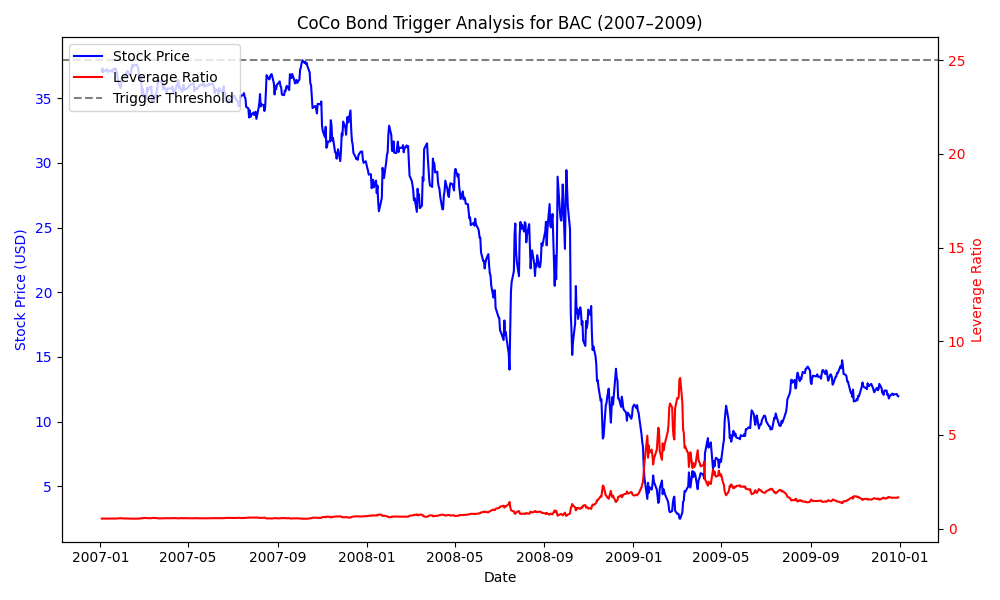
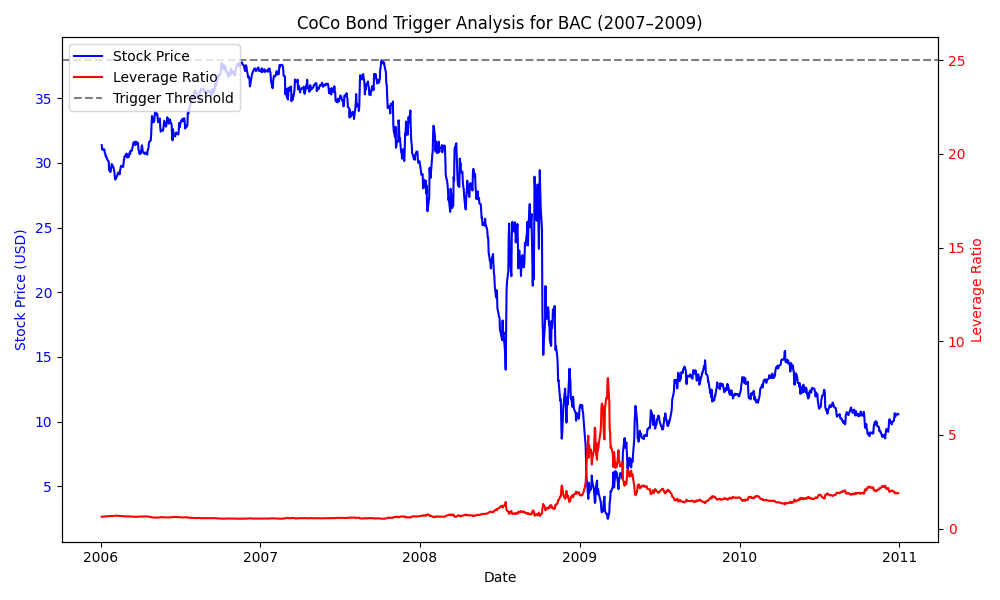
.

diff --git a/code/monte_carlo.py b/code/monte_carlo.py
@@ -84,7 +84,7 @@ def plot_coco_results(df, ticker="BAC", leverage_trigger=25.0):
 def main():
     # 1. Fetch historical data for a specific bank
     ticker = "BAC"  # Bank of America, as an example
-    df_price = fetch_stock_data(ticker, start="2007-01-01", end="2009-12-31")
+    df_price = fetch_stock_data(ticker, start="2006-01-01", end="2010-12-31")
 
     # 2. Simulate CoCo bond behavior on this historical path
     #    (i.e., did it trigger on any days given a hypothetical threshold?)
